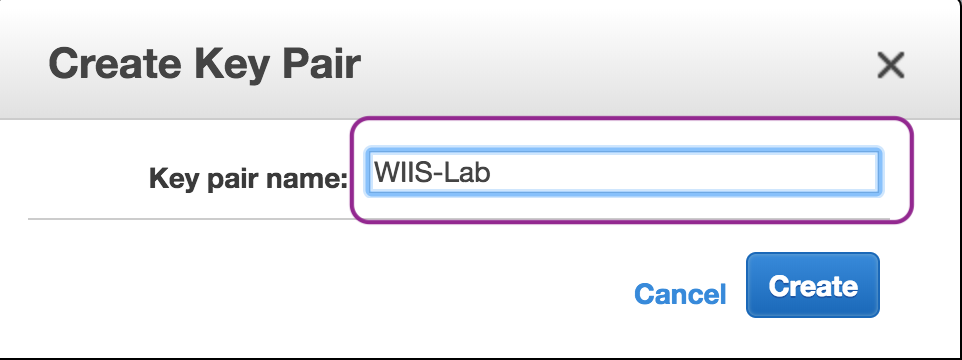
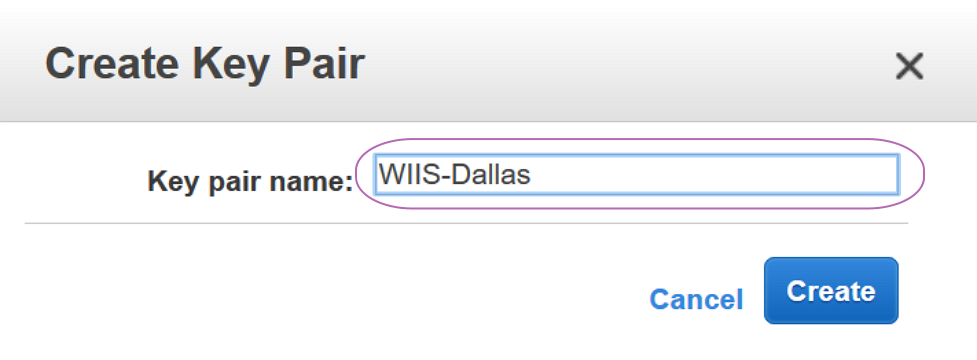
name and screenshot edit
changed the stack name to remove the dash.  Edited a few of the key names and updated a couple of the screen captures

diff --git a/AWS_Lab_Setup/README.md b/AWS_Lab_Setup/README.md
@@ -25,17 +25,17 @@ This is the only chance for you to save the private key file. You'll need to pro
 
 ## Deploy CloudFormation
 
-1. Click <a href="https://console.aws.amazon.com/cloudformation/home?region=us-east-1#/stacks/new?stackName=wiis_dallasLab&templateURL=https://s3-us-west-2.amazonaws.com/johammer/Public/LabEnvironment.template" target="_blank">Launch CloudFormation</a>
+1. Click <a href="https://console.aws.amazon.com/cloudformation/home?region=us-east-1#/stacks/new?stackName=wiisdallasLab&templateURL=https://s3-us-west-2.amazonaws.com/johammer/Public/LabEnvironment.template" target="_blank">Launch CloudFormation</a>
 
 2. Click the **Next** button
 ![](https://github.com/Halimer/wiis_dallas/blob/master/images/CFT_S3_Template.png)
 
-3. Select 'wiis_dallas-Lab-<Region>' as the **KeyName**
+3. Select 'wiis_dallas-Lab' as the **KeyName**
 ![](https://github.com/Halimer/wiis_dallas/blob/master/images/CFT_Details_Template.png)
 
 4. Click the **Next** button
 5. Under **Key** enter 'Name'
-6. Under **Value** enter 'wiis_dallas Lab'
+6. Under **Value** enter 'WIIS-Dallas'
 ![](https://github.com/Halimer/wiis_dallas/blob/master/images/CFT_Options.png)
 
 7. Click the **Next** button
